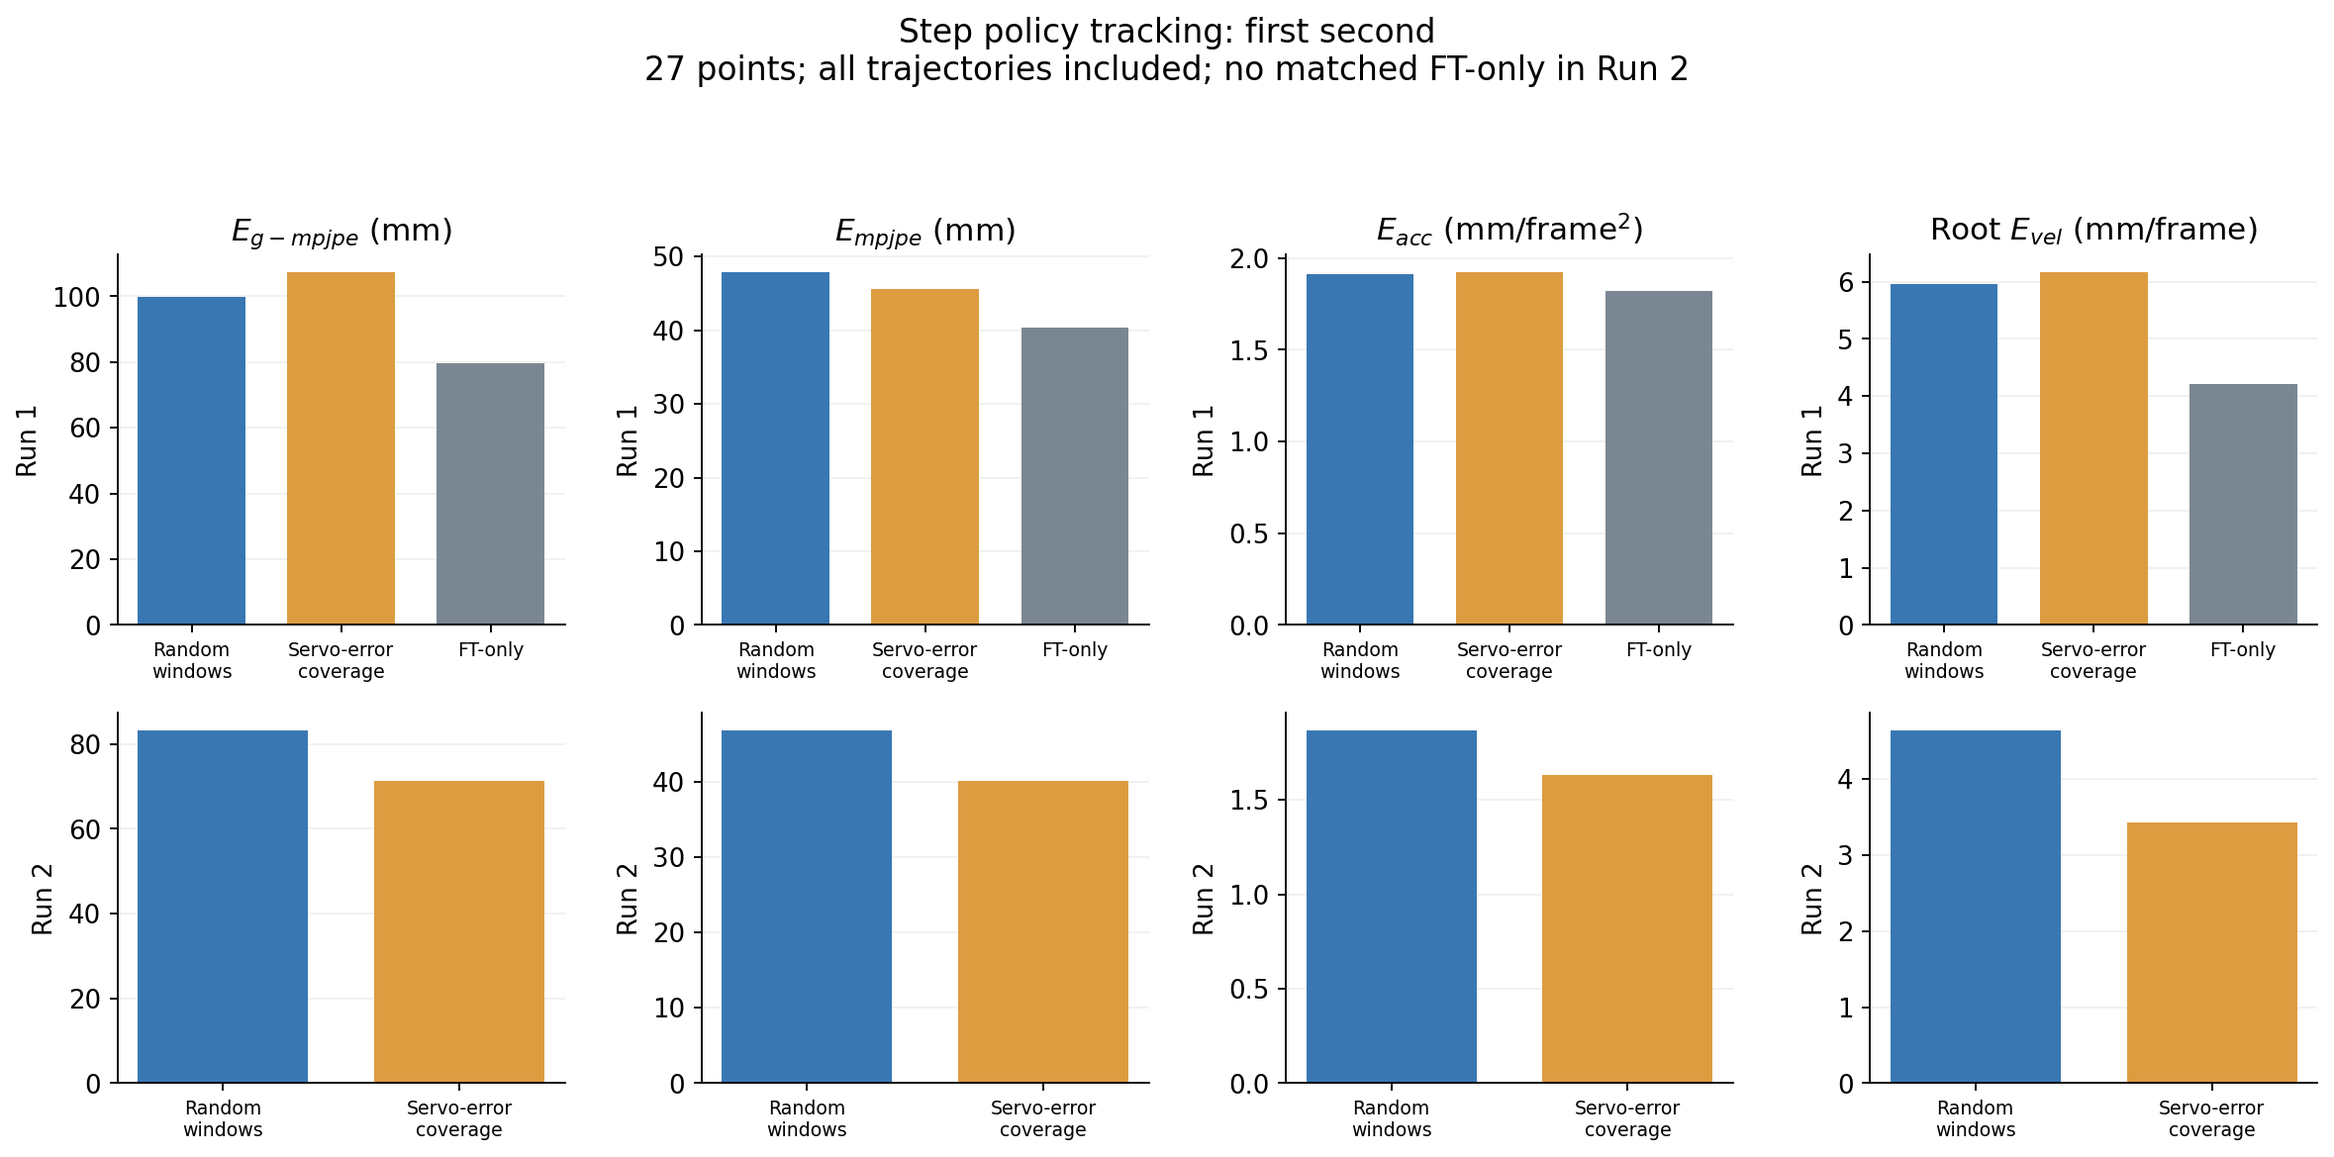
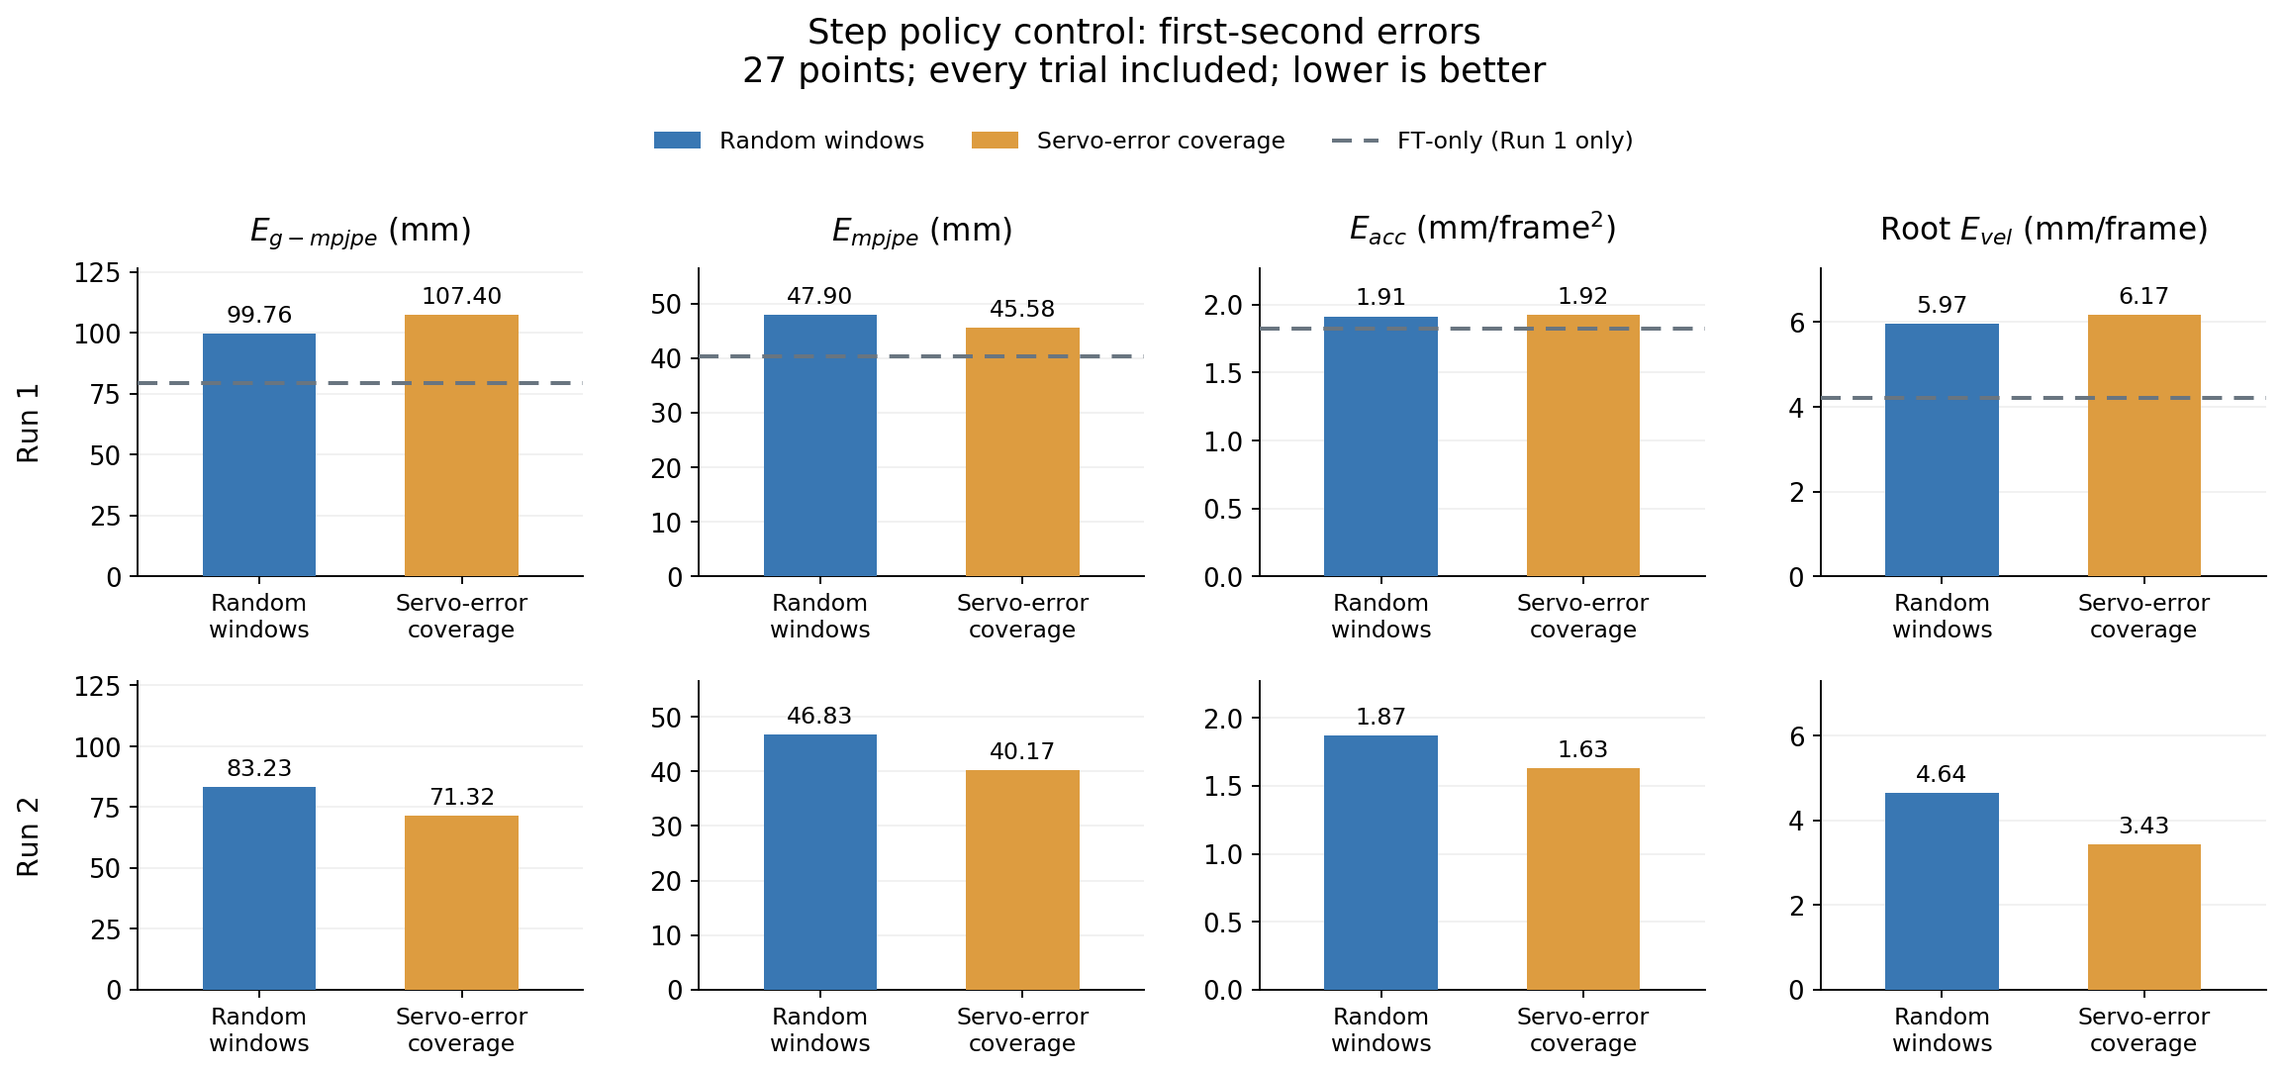
Clarify hypothesis-test narrative and balance comparison figures

diff --git a/README.md b/README.md
@@ -6,37 +6,42 @@
 
 ## 2. Background
 
-Motion tracking asks a humanoid to follow a sequence of reference poses while maintaining balance. Reinforcement learning can train a feedback policy for this task in simulation. However, the same policy may behave differently on hardware. Actuator response and contact dynamics can differ from the training environment.
+Motion tracking asks a humanoid to follow a sequence of reference poses while maintaining balance. Reinforcement learning can train a control policy for this task in simulation. However, the pre-trained policy may behave differently on real world deployment, or other simulator, which is boardly called sim-to-real gap. Actuator response and contact dynamics can differ from the training environment.
 
-One approach is to adjust simulation using data from the target domain. The adjusted environment is called **calibrated simulation** throughout this report. Three works motivate the experiments:
+One approach to handle this problem is to adjust simulation using data from the target domain. The adjusted environment is called **calibrated simulation** throughout this report. The picture from ASAP paper below shows the **delta action model** approach. 
+
+![ASAP-Approach](/results/ASAPapproach.png)
+
+
+Three works motivate the experiments:
 
 | Work | What it adjusts | What data it uses |
 |---|---|---|
-| [ASAP](https://arxiv.org/html/2502.01143v3) | Position-target actions through a learned delta action model | Target motion-tracking policy rollouts |
-| [SPI-Active](https://github.com/LeCAR-Lab/SPI-Active) | Physical parameters through identification and active exploration | Responses to commands chosen for identification |
-| [Unsupervised Actuator Net (UAN)](https://arxiv.org/abs/2502.10894) | Actuator torque through a learned correction | Responses to wave and noise inputs |
+| [ASAP](https://agile.human2humanoid.com/) | Position-target actions through a learned delta action model | Target motion-tracking policy rollouts |
+| [SPI-Active](https://lecar-lab.github.io/spi-active_/) | Physical parameters through identification and active exploration | Responses to commands chosen for identification |
+| [Unsupervised Actuator Net (UAN)](https://uan.csail.mit.edu/) | Actuator torque through a learned correction | Responses to wave and noise inputs |
 
-These methods use different data to model different parts of the dynamics. They do not give a single data-selection rule for learned correction. A large joint range may not expose the response difference that matters for control.
+These methods use different data to model different parts of the dynamics. They do not give a single data-selection rule for learned correction. Real world rollout trajectories was used to train delta action model by ASAP, and SPI-Active actively explore the informative command to excite the parameters to be identified. UAN tried to find data that provides broad coverage of actuator behavior.
 
-I tested these ideas in ASAP under a known ankle-stiffness change. Replay improved to different degrees, while control results were less consistent. This motivates the research question.
+We verified these ideas in [humanoidverse](https://github.com/LeCAR-Lab/HumanoidVerse) framework under a known ankle-stiffness change. Replay improved to different degrees, while control results were less consistent. This motivates the research question.
 
-## 3. Method comparisons
+## 3. Experiments
 
-Both domains use G1 in IsaacGym. Four ankle stiffness values change from $K_p=20$ in source A to $K_p=16$ in target B. Other dynamics stay fixed. This known change helps interpret the results; it is not a hardware test.
+Both domains use Unitree-G1 humanoid in IsaacGym. Four ankle stiffness values change from $K_p=20$ in source A to $K_p=16$ in target B. Other dynamics stay fixed. This known change helps interpret the results, and we consider the change as simulation of environment transfer.
 
 | Method | Principle |
 |---|---|
 | Original | Deploy the source policy directly in B. |
 | FT-only | Further train the policy in uncalibrated A. |
-| Delta action | Learn an action correction from B recordings, then train the policy in calibrated simulation. |
-| Passive SysID | Fit ankle pitch and roll gains to recorded joint trajectories. |
+| Delta action | Learn an action correction from B recordings, then train the policy in calibrated simulation. Without any correction method. |
+| Passive SysID | Fit ankle pitch and roll gains to recorded joint trajectories. To identify these parameters. |
 | Active SysID | Design informative command offsets, collect new trajectories, and fit the gains. |
 | Common torque | Learn a torque correction from the original motion-tracking recordings. |
 | Excitation torque | Learn a torque correction from new wave/noise excitation recordings. |
 
-Each task uses its source policy after **6,000 PPO updates**. I run these policies in B to collect commands and states. Calibration then makes replay in A approach those recorded B trajectories. Each adapted policy receives **1,000 further PPO updates** in calibrated simulation. The final policy runs alone in B. FT-only receives the same number of policy updates. Calibration procedures differ between methods.
+Each task uses its source policy after **6k** PPO step updates. Then run these policies in B to collect commands and states. Calibration then makes replay in A approach those recorded B trajectories. Each adapted policy receives **1,000** further PPO updates in calibrated simulation. The final policy runs alone in B. FT-only receives the same number of policy updates. Calibration procedures differ between methods.
 
-The SysID and torque methods adapt SPI-Active and UAN ideas to G1. This is not a full reproduction of either paper. Formulas and implementation differences are in [Methods](docs/methods.md). Settings, data collection and implementation fixes are in [Training details](docs/training_details.md).
+The SysID and torque methods adapt SPI-Active and UAN ideas to robot. This is not a full reproduction of either paper. Formulas and implementation differences are in [Methods](docs/methods.md). Settings, data collection and implementation fixes are in [Training details](docs/training_details.md).
 
 ### Open-loop replay
 
@@ -44,7 +49,7 @@ The chart compares replay in A with recorded trajectories in B over one second. 
 
 ![Four open-loop errors](results/open_loop.png)
 
-All calibrated methods reduce the four mean errors. Active SysID gives the smallest errors. Its fitted pitch/roll gains, **15.80/15.59**, are also close to the target **16/16**. This is consistent with effective identification in this simple mismatch. It does not show that parameter fitting can capture every hardware discrepancy. Passive SysID fits **13.01/10.42**, showing that a useful trajectory fit need not recover the physical parameters.
+All calibrated methods reduce the four mean errors. Active SysID gives the smallest errors. Its fitted pitch/roll gains, **15.80/15.59**, are also close to the target **16/16**. This is consistent with effective identification in this simple mismatch. It does not show that parameter fitting can capture every environment discrepancy, especially complex dynamics in real world. Passive SysID fits **13.01/10.42**, showing that a useful trajectory fit need not recover the physical parameters.
 
 ### Closed-loop motion tracking
 
@@ -60,9 +65,12 @@ The original Step policy reaches 90.6% success in A but only 1.0% in B, confirmi
 
 ### Recorded examples
 
-These author-recorded clips show behavior in B. They are partial recordings with different start phases. A blank panel marks a clip’s end. Quantitative conclusions use the evaluations above.
+We choose serveral examples that show policy behavior in B. They are partial recordings with different start phases. A blank panel marks a clip’s end. Quantitative conclusions use the evaluations above.
 
-**Squat — Left: Original. Right: Delta action.** The delta policy appears more conservative during the squat. Aggregate success rises from 44.8% to 91.7%. Its four first-second errors also decrease. Over successful full motions, root-relative error increases from 50.62 to 55.78 mm, with different successful cohorts. The result is not an increase in every error.
+**Squat — Left: Original. Right: Fine-tuned by Delta action model (ASAP).**
+We observe that the policy without fine-tuning achieves better intermediate action completion but ultimately causes the robot to fall. After fine-tuning the policy using the delta action model, the robot no longer falls, yet tracking errors increase throughout the process, making the movements appear "conservative".\
+Success rate: 44.8% to 91.7%\
+Root-relative error: 50.62 to 55.78 mm
 
 ![Squat comparison](results/visualizations/squat.gif)
 
@@ -70,55 +78,59 @@ These author-recorded clips show behavior in B. They are partial recordings with
 
 ![CR7 comparison](results/visualizations/cr7.gif)
 
-**Step — Left: Original. Right: Passive SysID.** Original leans sharply away from the reference, while Passive SysID stays upright during the recorded step. Aggregate success rises from 1.0% to 100%. The clip does not isolate the balance mechanism.
+**Step — Left: Original. Right: Passive SysID.** The original policy failed to keep the leg or heel aligned with the center of mass due to reduced ankle joint gain, resulting in a fall. Passive sysID method adapted more effectively, successfully executing the Step motion.
 
 ![Step comparison](results/visualizations/step.gif)
 
-## 4. Observations and reasoning
+## 4. Suggested from experiment results
 
-Replay measures agreement under recorded commands. Fine-tuning changes the commands and visited states. A correction can fit recordings yet be less useful for the new policy. A pooled replay average cannot explain a particular task's control result.
+The calibrated methods improve replay, but their policies do not consistently perform better in B. Replay evaluates the simulator using recorded commands. After fine-tuning, the policy can choose different commands and visit states that were rarely covered by the recordings. This could limit the usefulness of the learned correction, although the current experiments do not establish why control performance differs.
 
-The known mismatch suggests a measurable data property. For an unsaturated PD actuator, let $e=q_{cmd}-q$. At the same state and command, with equal damping,
+This leads to a more specific question: what should the calibration recordings contain? For the ankle-gain change used here, one candidate is the difference between the commanded and actual joint position, (e=q_{cmd}-q). With equal damping and no torque saturation, the same state and command produce a torque difference of
 
 $$
 \tau_B-\tau_A=(16-20)e=-4e.
 $$
 
-Matching this torque instantaneously in A requires
+The direction and magnitude of this position error therefore determine the immediate effect of the gain change. Joint range alone does not provide this information. A joint can move through a large angle while closely following its command, or move only slightly while remaining far from its commanded position.
 
-$$
-\Delta q_{cmd}=-0.2e.
-$$
+This provides a reason to select recordings that cover different signs and magnitudes of ankle position error. However, larger errors are not automatically more useful: if both actuators reach the same torque limit, saturation can hide the gain difference. The action correction is also updated less frequently than the PD controller, so matching torque at one instant does not ensure that the whole trajectory will match.
 
-Servo error therefore exposes the stiffness difference more directly than joint range. Its sign and magnitude both matter. Large error alone is not enough: clipping can hide the gain difference. The correction also runs at 50 Hz while PD runs at 200 Hz, so instantaneous matching does not guarantee trajectory matching.
+These considerations motivate the data-selection hypothesis below. 
 
 ## 5. Hypothesis
 
-**For this ankle-stiffness mismatch, calibration windows covering different signs and magnitudes of unsaturated ankle servo error will reduce held-out replay error more than random windows of the same total size. Whether this gain improves policy control is tested separately.**
+**For the ankle stiffness change used here, expecting that recordings cover different signs and magnitudes of ankle servo error to help the delta action model learn the response difference. With the same amount of data and the same training budget, this model could reproduce unseen target trajectories more accurately than a model trained on randomly selected recordings.**
 
-This hypothesis concerns the current gain change.
 
 ## 6. Minimum hypothesis test
 
-I compare **Random windows** with **Servo-error coverage**. Both select from the same target training recordings: six from each of the three motions. Each recording contributes one continuous 54-state window, giving **954 transitions per dataset**. Random selection follows fixed task, phase, speed and contact-proxy quotas. Servo-error coverage follows the same quotas but fills sign/magnitude bins separately for each ankle.
+To test this hypothesis, I keep the delta action method fixed and change how its training windows are selected. **Random windows** provide a baseline. **Servo-error coverage** selects windows that cover different signs and magnitudes of position error at each ankle.
 
-Each dataset trains a fresh delta action model with the same architecture and 1,000 updates. Both then fine-tune the same Step source policy for 1,000 updates. Noise and reset fixes are applied. Validation and test recordings are shared and separate from training. Two runs change the calibration and policy training seeds; replay and deployment seeds stay fixed.
+Both groups use the same 18 target recordings, six from each motion. Each group selects one continuous window per recording, giving **954 transitions**. Task, phase, speed and contact-proxy quotas stay the same. Each dataset trains a new delta action model for 1,000 updates. Its frozen correction is then used to fine-tune the same Step source policy for 1,000 updates.
+
+I repeat this process with a second pair of training seeds. The selected data, validation and test recordings stay unchanged, as do the evaluation seeds. In each chart, the top row is Run 1 and the bottom row is Run 2. Lower bars mean lower error.
+
+### Does servo-error coverage improve replay?
 
 ![Four replay errors in the minimum test](results/selection_replay.png)
 
+The grey dashed lines show replay without calibration. The bars show the two learned corrections. These errors average equally across the three motions.
+
+Random windows give lower error on all four measures in both runs. They also improve position and root velocity over uncalibrated replay, although acceleration error increases slightly. **Servo-error coverage does not improve on random selection in this test.** The proposed calibration benefit is therefore not supported by these results.
+
+### Do the replay results carry over to control?
+
 ![Four Step tracking errors in the minimum test](results/selection_control.png)
 
-| Training run | Random windows success | Servo-error coverage success | Matched FT-only success |
-|---|---:|---:|---:|
-| Run 1 | 0.0% | 0.0% | 5.2% |
-| Run 2 | 20.8% | 33.3% | Not evaluated |
+These bars show the resulting Step policies in B. Errors cover the first second, which every trial reaches. The grey dashed lines in Run 1 show a newly trained FT-only policy with the same training seed. There is no matched FT-only policy for Run 2.
 
-FT-only in this test is newly trained with the Run 1 policy seed. It is distinct from the main comparison’s FT-only policy.
+In Run 1, neither residual policy completes Step, and both have higher errors than FT-only. FT-only itself has only **5.2%** success, so control remains difficult under this training setup.
 
-Random windows give lower replay error on all four measures in both runs. Thus, **this selector has not supported the calibration hypothesis**. In Run 2, Servo-error coverage gives better Step success and lower first-second tracking errors despite worse replay. This reinforces the need to evaluate replay and control separately.
+Run 2 gives a different picture. Servo-error coverage has lower tracking error on all four measures and **33.3%** success, compared with **20.8%** for Random. Its replay is worse, yet its policy tracks better. **The replay ranking therefore does not predict the control ranking in this run.**
 
-The servo-error contrast is modest, and speed/contact distributions still differ. Two runs cannot establish a stable ranking. Low-error windows were prepared but not trained. Selected windows and final results are retained as CSV files.
+This small test shows why calibration and control need separate evaluation. It does not establish a reliable advantage for servo-error coverage. The actual coverage difference is small, speed and contact distributions still differ, and changing training seeds affects the outcome. A stronger data contrast and more training runs are needed to test the hypothesis further.
 
-**Future work:** test a stronger data contrast and transfer from IsaacGym to IsaacLab or Genesis. No cross-engine results are claimed here.
+Selected windows and results are retained as CSV files. Low-error windows were prepared but not trained. Future work could also test transfer to IsaacLab or Genesis.
 
 The `ASAP/` folder contains the framework source, installed fixes and method implementations. Model weights and calibration recordings are held in the separate experiment archive. This public repository provides the report, final metrics, settings, reference motions and code.

diff --git a/docs/methods.md b/docs/methods.md
@@ -70,7 +70,7 @@ Code: `active_design.py` implements command offsets, sensitivity and feasibility
 For each ankle, the corrected torque is
 
 $$
-\tau_t=\operatorname{clip}\left(\tau_{PD,t}+5g_\psi(h_t),-50,50\right)\ \mathrm{Nm}.
+\tau_t=\mathrm{clip}\left(\tau_{PD,t}+5g_\psi(h_t),-50,50\right)\ \mathrm{Nm}.
 $$
 
 The history $h_t$ contains twenty samples of position error and velocity error at 5 ms intervals. Desired joint velocity is zero in this PD interface, so the second channel is $-0.05\dot q$. A shared 40→128→128→1 MLP uses ELU hidden layers. Four ankles use the same weights. The scale is 5 Nm per output unit; the correction has no separate 5 Nm cap. PPO trains this model against target trajectories. The frozen model then supplies corrective torque during policy training in calibrated simulation.
